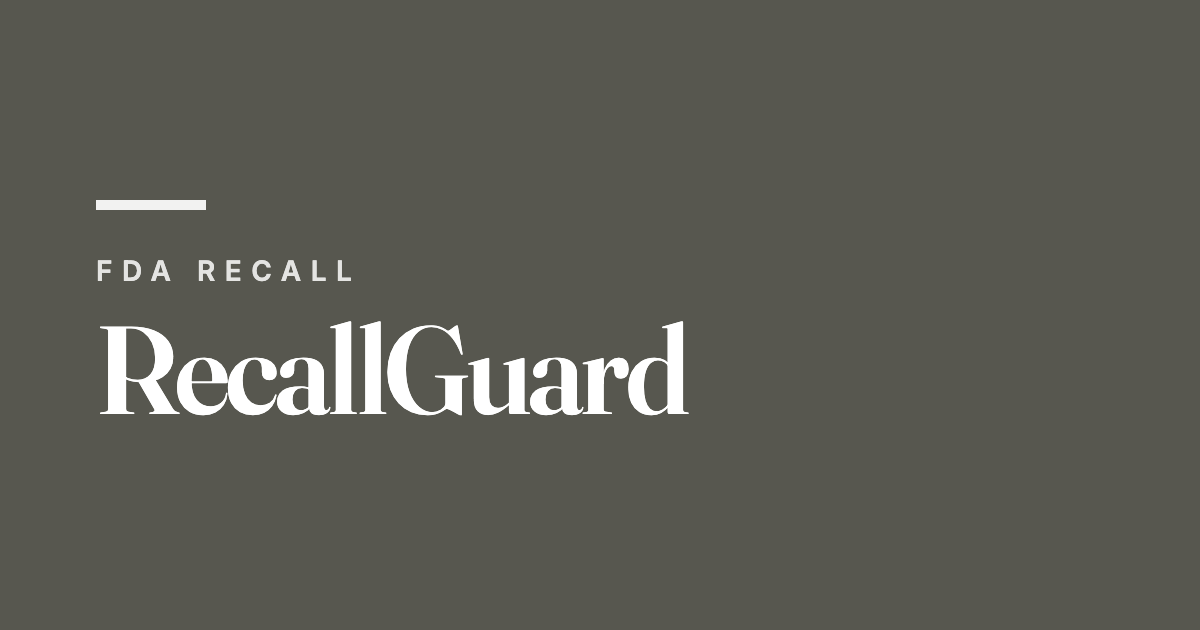
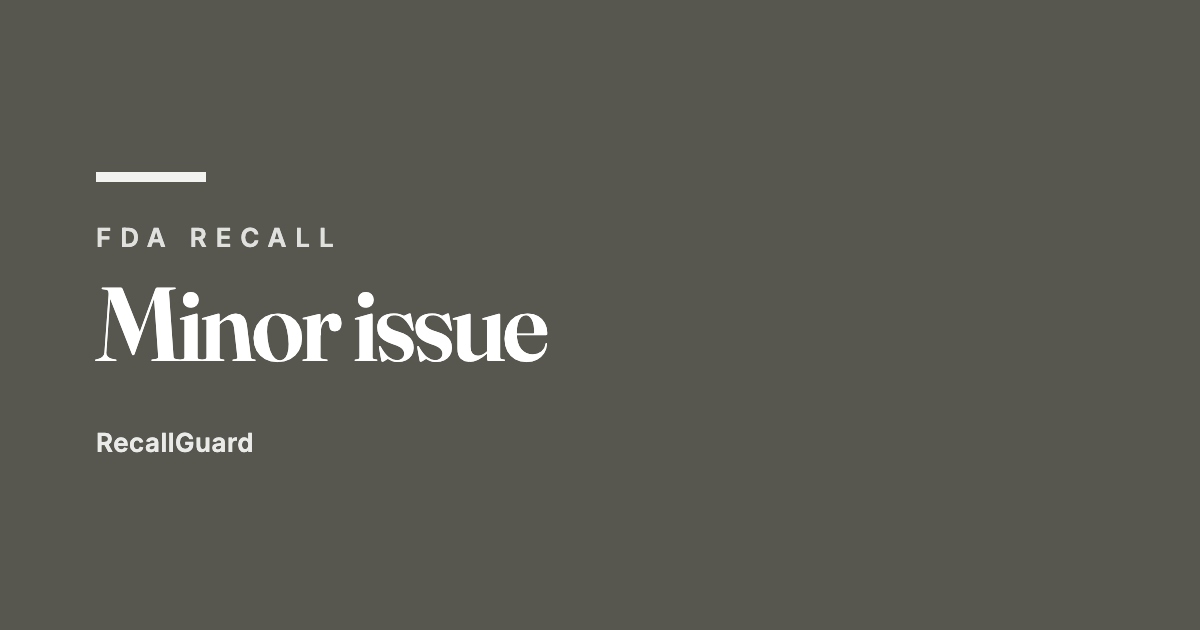
feat(recallguard): add severity labels and pending-grade art to og previews
The link-preview images now carry the severity label — "Serious risk", "Possible risk", or "Minor issue" — matching SEVERITY_LABEL in the app itself. Before this change, all three cards read only "FDA Recall / RecallGuard" with the severity signal carried entirely by background colour alone.

More importantly, recalls the FDA has published but not yet classified now get their own art: a 45-degree hatched field instead of solid colour, plus the line "Not yet graded by the FDA". This follows the design principle in components/SeverityStripe.tsx (hue carries danger, fill carries certainty): without separate pending art, an inferred "possible serious risk" would arrive in a message thread pixel-identical to a confirmed Class I recall, with the entire hedge resting on a single word — the exact failure that stripe was built to fix.

The worker changes are minimal: each severity tier gains an imagePending entry pointing to the hatched variant (tier 1 has no pending variant since severityFromHazardText floors at 2), and a new severityImage(row) helper selects solid or hatched art based on the row's classification state. Verified locally against one live row per case: Class I, Class II, Class III, Pending severity 3, and Pending severity 2 each resolve to the correct image and label.

Changed region(s): [[0.0617, 0.3619, 0.5858, 0.6635], [0.0617, 0.2714, 0.185, 0.3317], [0.0617, 0.6937, 0.2158, 0.7238]]

diff --git a/src/worker.js b/src/worker.js
@@ -54,6 +54,15 @@ const APPLE_APP_ID = "W6A7W47YE4.com.anthonyzchen.recallguard";
  * `pending` is the hedged label for rows the FDA has published but not graded.
  * On those, severity is our own read of the hazard text rather than an FDA
  * verdict, so the urgency stays and the certainty does not.
+ *
+ * The preview images follow components/SeverityStripe.tsx in the app, whose
+ * rule is **hue carries danger, fill carries certainty**: a graded recall gets a
+ * solid field, an ungraded one gets the same hue under a 45° hatch. Without the
+ * separate `imagePending` art, an inferred "possible serious risk" would arrive
+ * in the message thread pixel-identical to a confirmed Class I, with the whole
+ * hedge resting on one word — the exact failure that stripe was built to fix.
+ *
+ * Tier 1 has no pending variant because severityFromHazardText floors at 2.
  */
 const SEVERITY = {
   3: {
@@ -61,6 +70,7 @@ const SEVERITY = {
     pending: "Possible serious risk",
     color: "#c8102e",
     image: "/og/recall-sev-3.png",
+    imagePending: "/og/recall-sev-3-pending.png",
     action: "Stop using this product now. Do not eat it.",
   },
   2: {
@@ -68,6 +78,7 @@ const SEVERITY = {
     pending: "Possible risk",
     color: "#a8630a",
     image: "/og/recall-sev-2.png",
+    imagePending: "/og/recall-sev-2-pending.png",
     action: "Stop using this product.",
   },
   1: {
@@ -76,6 +87,7 @@ const SEVERITY = {
     pending: "Possible risk",
     color: "#57574f",
     image: "/og/recall-sev-1.png",
+    imagePending: "/og/recall-sev-1.png",
     action:
       "Check the lot code on your package against the affected range in the FDA record. If it matches, stop using it.",
   },
@@ -163,6 +175,12 @@ const severityLabel = (row) => {
 
 const actionFor = (row) =>
   isPending(row.classification) ? PENDING_ACTION : severityFor(row.severity).action;
+
+/** Solid art for a graded recall, hatched art for one the FDA has not rated. */
+const severityImage = (row) => {
+  const tier = severityFor(row.severity);
+  return isPending(row.classification) ? tier.imagePending : tier.image;
+};
 
 /**
  * Trim a raw FDA product_description down to something that reads as a name.
@@ -595,7 +613,7 @@ const renderRecall = (row) => {
   return shell({
     title: ogTitle,
     description: ogDescription,
-    image: tier.image,
+    image: severityImage(row),
     canonical,
     accent: tier.color,
     body,
